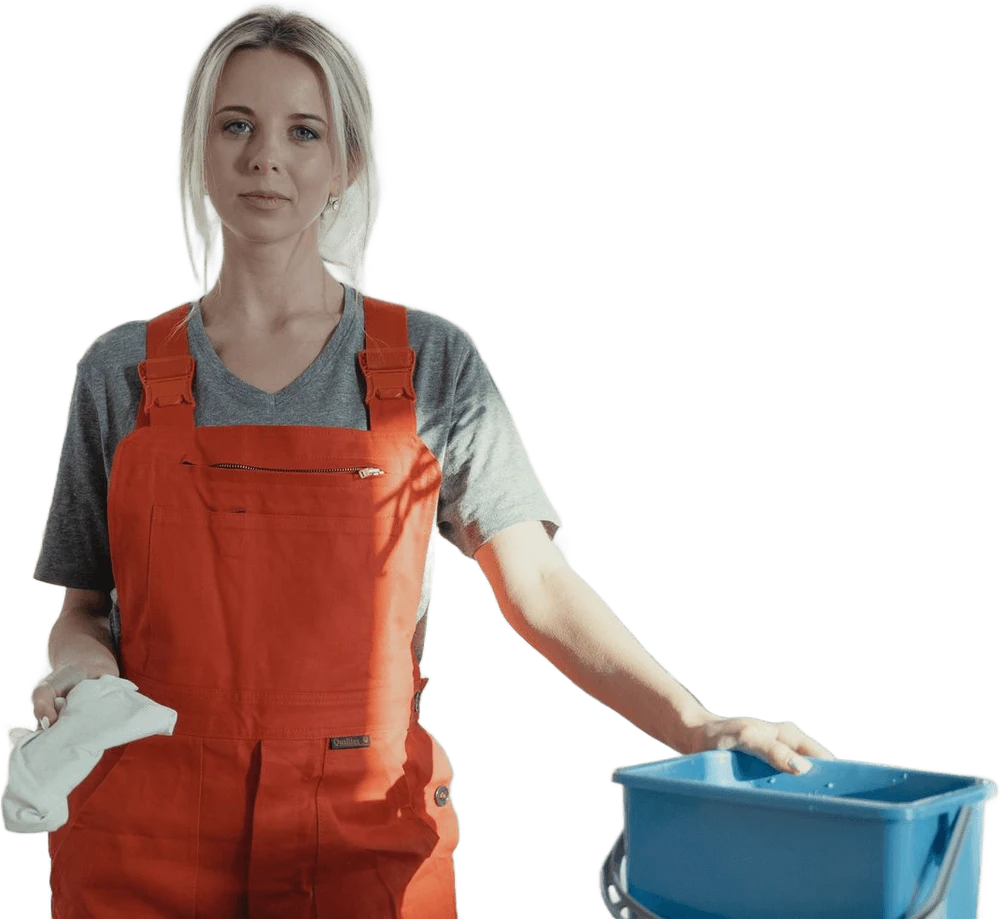
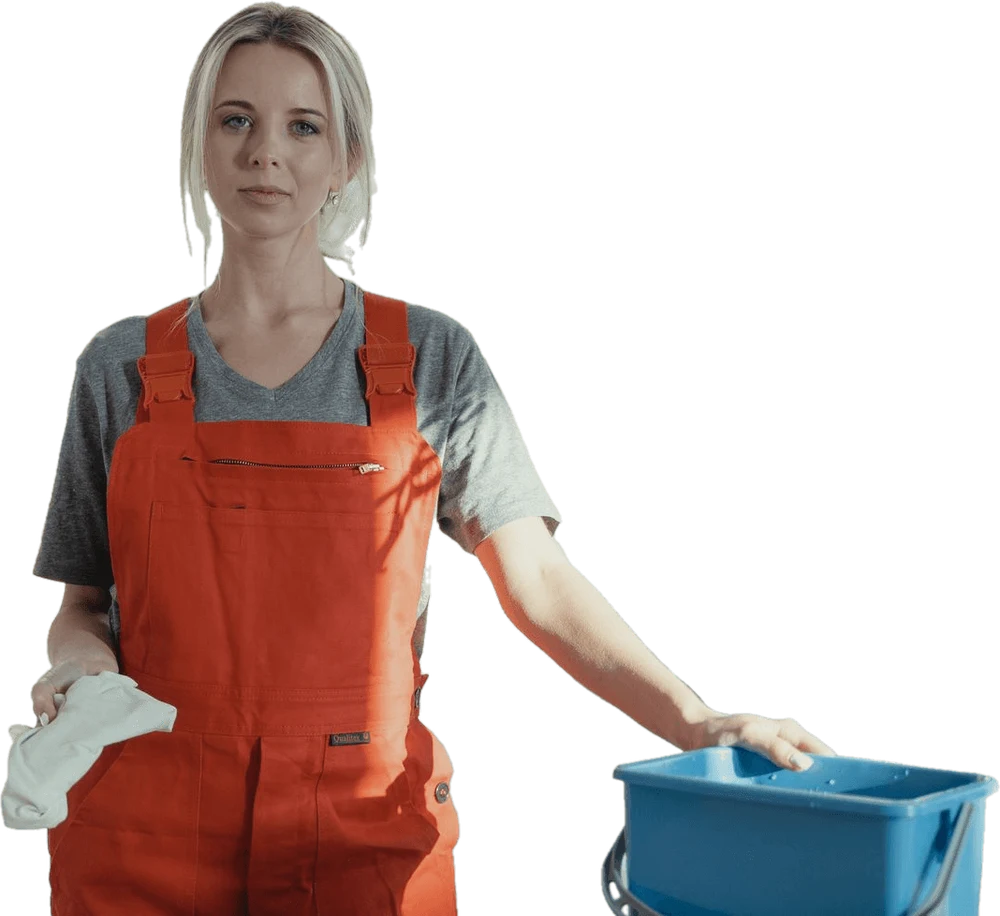
Fix cleaner cutout: clean alpha (no haze box), centered blob, curved bottom, responsive

diff --git a/index.html b/index.html
@@ -149,6 +149,8 @@
     <div class="about-sec__art" data-reveal="zoom" data-parallax-scope>
       
 <div class="cutout">
+  <svg class="cutout__clip" aria-hidden="true" focusable="false"><clipPath id="cutoutClip" clipPathUnits="objectBoundingBox"><path d="M-0.1 -0.2H1.1V0.74C1.1 0.9 0.82 0.985 0.5 0.985S-0.1 0.9 -0.1 0.74Z"/></clipPath></svg>
+  <span class="cutout__floor" aria-hidden="true"></span>
   <svg class="cutout__blob" viewBox="0 0 420 460" aria-hidden="true">
     <defs><linearGradient id="cutBg" x1="0" y1="0" x2="1" y2="1"><stop offset="0" stop-color="#46BCCB"/><stop offset="1" stop-color="#1B96A6"/></linearGradient></defs>
     <path class="blob-a" fill="url(#cutBg)" d="M214 22c80-4 150 50 160 128 10 76-34 100-32 176 2 66-58 112-132 112S50 400 38 328C28 258 66 232 58 160 52 84 130 26 214 22z"/>
@@ -156,7 +158,7 @@
   </svg>
   <img class="cutout__img" src="assets/img/cleaner-cutout.webp" width="1000" height="919" alt="Confident cleaner in coral overalls holding a cleaning cloth and resting a hand on a blue bucket" loading="lazy" decoding="async">
 </div>
-      <span class="plx " data-depth="0.08" style="left:-6%;top:12%;"><svg class="bubble float" viewBox="0 0 40 40" width="46" height="46" aria-hidden="true"><circle cx="20" cy="20" r="17" fill="#2CA9B7" fill-opacity=".12" stroke="#2CA9B7" stroke-width="2"/><path d="M11 17a9 9 0 0 1 7-7" fill="none" stroke="#fff" stroke-width="3" stroke-linecap="round"/></svg></span>
+      <span class="plx " data-depth="0.08" style="left:-2%;top:18%;"><svg class="bubble float" viewBox="0 0 40 40" width="46" height="46" aria-hidden="true"><circle cx="20" cy="20" r="17" fill="#2CA9B7" fill-opacity=".12" stroke="#2CA9B7" stroke-width="2"/><path d="M11 17a9 9 0 0 1 7-7" fill="none" stroke="#fff" stroke-width="3" stroke-linecap="round"/></svg></span>
       <span class="plx " data-depth="0.06" style="left:88%;top:30%;"><svg class="bubble float-slow" viewBox="0 0 40 40" width="28" height="28" aria-hidden="true"><circle cx="20" cy="20" r="17" fill="#F56F63" fill-opacity=".12" stroke="#F56F63" stroke-width="2"/><path d="M11 17a9 9 0 0 1 7-7" fill="none" stroke="#fff" stroke-width="3" stroke-linecap="round"/></svg></span>
       <span class="plx " data-depth="0.05" style="left:88%;top:4%;"><svg class="foam float-slow" viewBox="0 0 80 64" aria-hidden="true"><g fill="#2CA9B7" fill-opacity=".1" stroke="#2CA9B7" stroke-width="2"><circle cx="26" cy="38" r="20"/><circle cx="56" cy="24" r="14"/><circle cx="58" cy="50" r="9"/></g><path d="M14 32a14 14 0 0 1 10-10M50 18a8 8 0 0 1 6-4" fill="none" stroke="#fff" stroke-width="3.5" stroke-linecap="round"/></svg></span>
     </div>

diff --git a/css/styles.css b/css/styles.css
@@ -587,11 +587,12 @@ form.is-sending .btn { pointer-events: none; opacity: .85; }
 }
 
 /* ---------- real-photo cleaner cutout ---------- */
-.cutout { position: relative; width: 100%; aspect-ratio: 1 / 1.08; }
-.cutout__blob { position: absolute; inset: 0; width: 100%; height: 100%; overflow: visible; }
-.cutout__img { position: absolute; left: 50%; bottom: 0; width: 106%; max-width: none; height: auto; transform: translateX(-50%); z-index: 2;
-  -webkit-mask-image: linear-gradient(to bottom, #000 80%, transparent 99%); mask-image: linear-gradient(to bottom, #000 80%, transparent 99%);
-  filter: drop-shadow(0 18px 22px rgba(10, 60, 70, .28)); transition: transform .6s var(--ease); }
+.cutout { position: relative; width: 100%; aspect-ratio: 1 / 1; }
+.cutout__blob { position: absolute; left: 0; top: 2%; width: 88%; height: 98%; overflow: visible; }
+.cutout__clip { position: absolute; width: 0; height: 0; }
+.cutout__img { position: absolute; left: 47%; bottom: 3%; width: 92%; max-width: none; height: auto; transform: translateX(-50%); z-index: 2;
+  clip-path: url(#cutoutClip); transition: transform .6s var(--ease); }
 .about-sec__art:hover .cutout__img { transform: translateX(-50%) translateY(-6px); }
+.cutout__floor { position: absolute; left: 6%; right: 8%; bottom: 0; height: 7%; border-radius: 50%; background: radial-gradient(ellipse, rgba(10,60,70,.28), transparent 70%); z-index: 1; }
 .about-sec__art { width: min(100%, 520px); }
-@media (max-width: 900px) { .about-sec__art { width: min(100%, 420px); } }
+@media (max-width: 900px) { .about-sec__art { width: min(100%, 440px); } }
